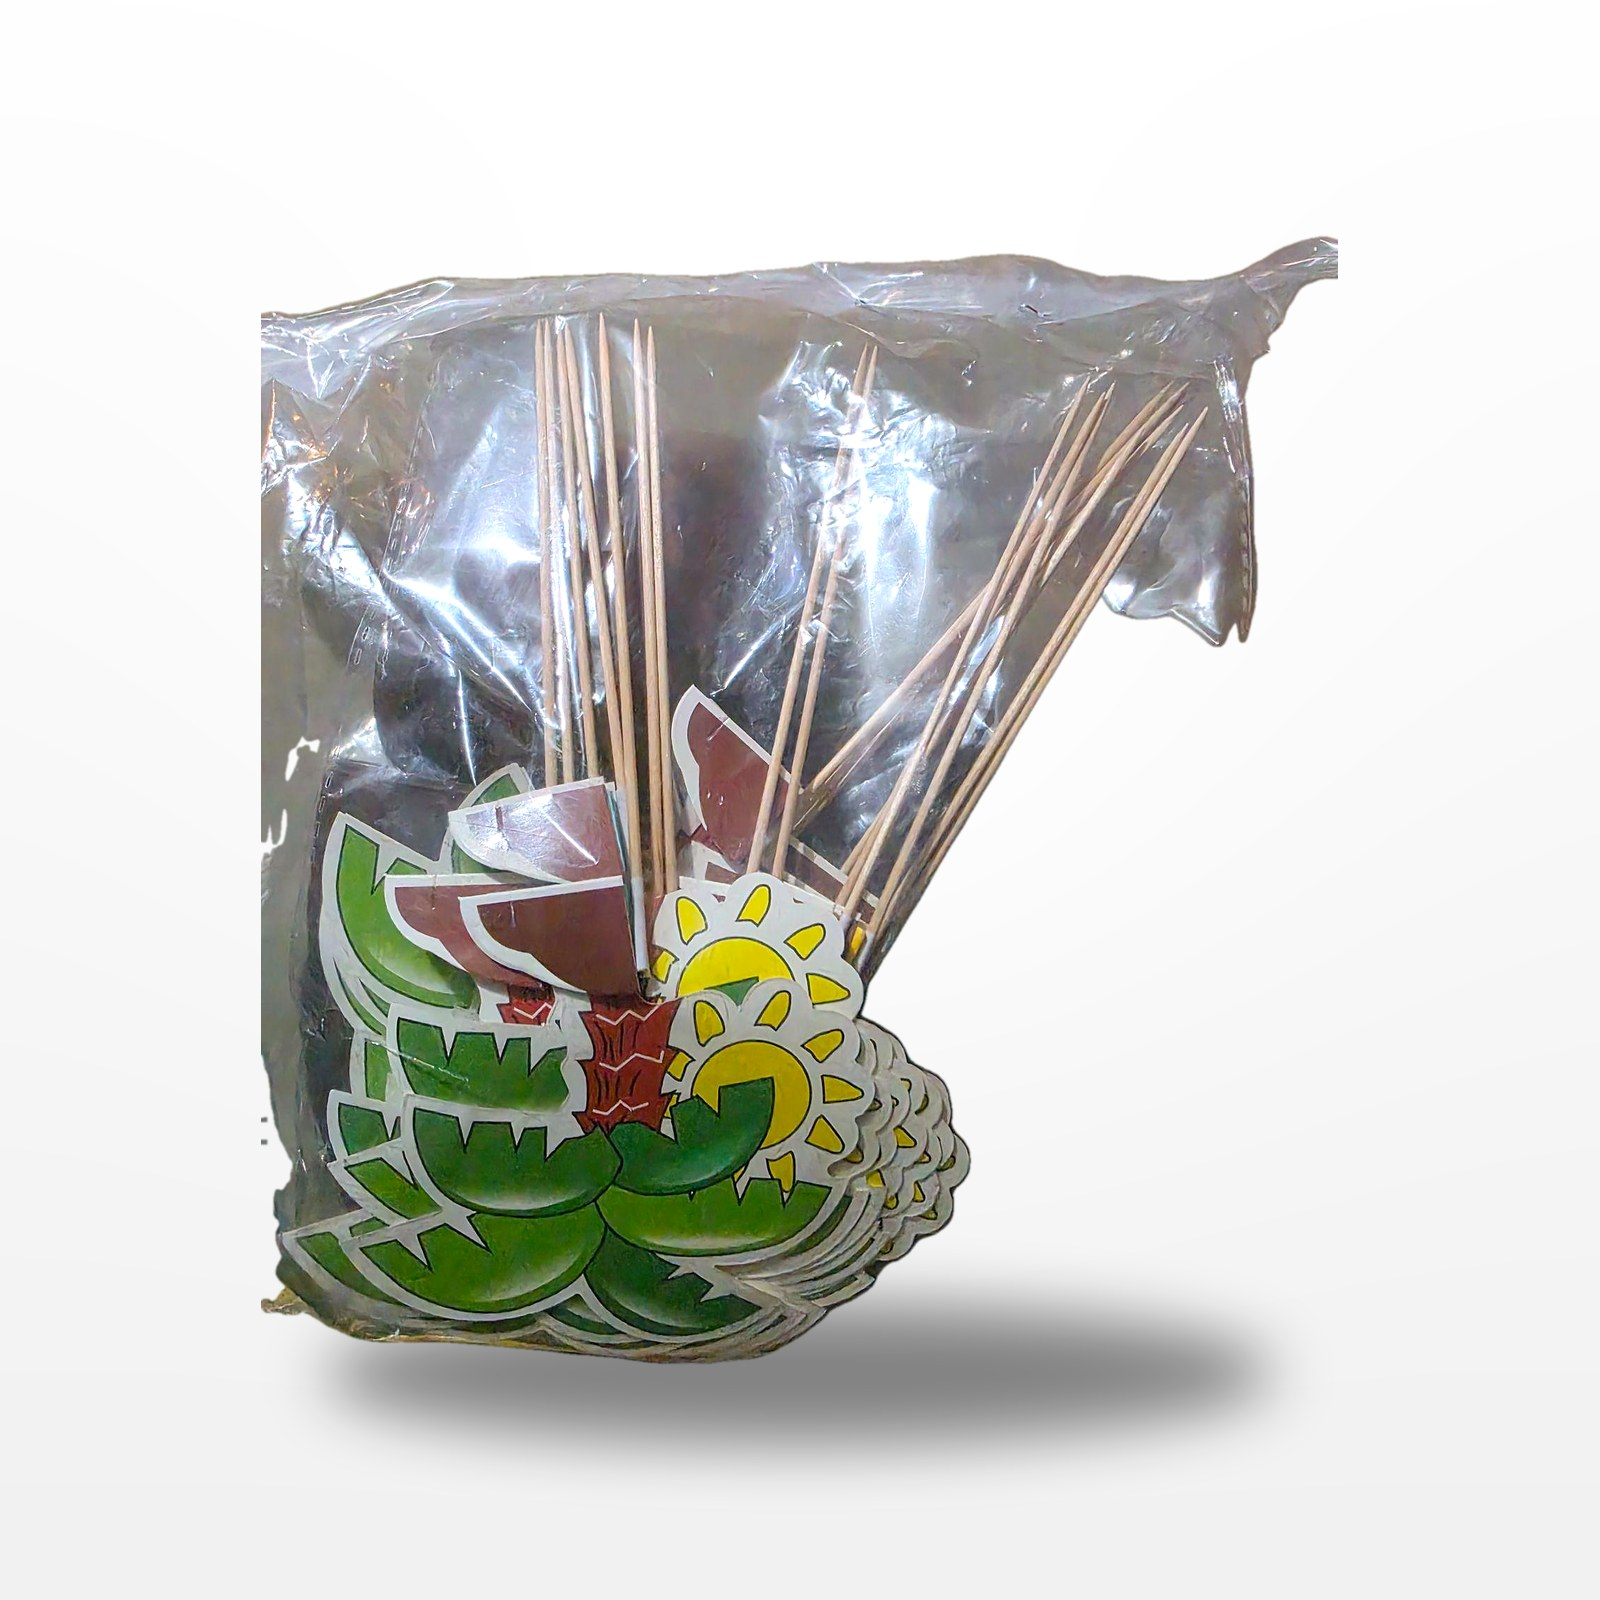
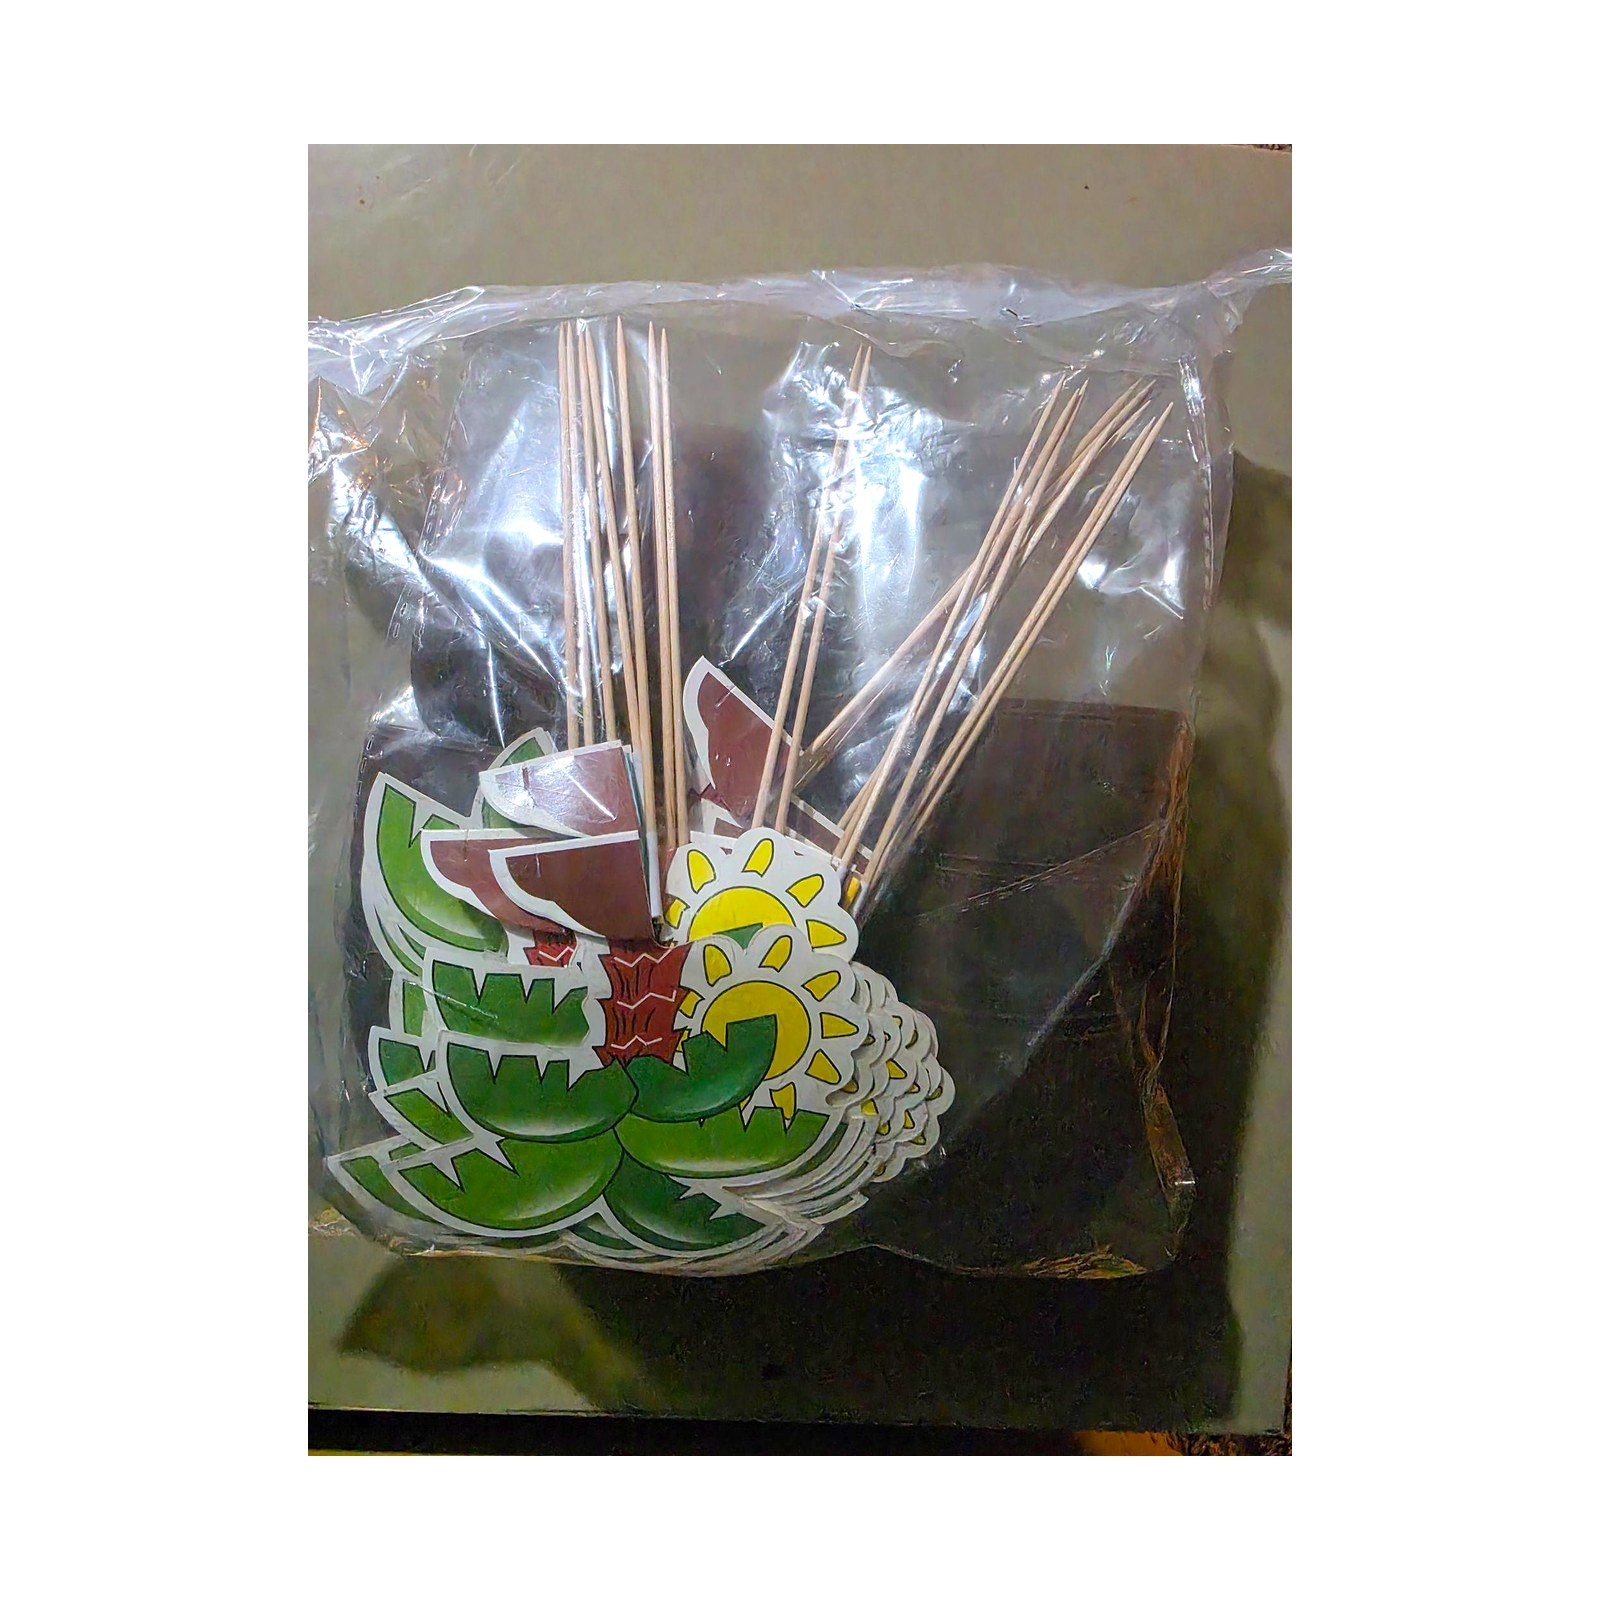
Check every photo for clipping, and fix the two that were clipped
Went back over all seventeen catalog photos specifically for parts of items
being cut off. Two were, and both are fixed.

- The cake toppers had the bag sliced down its right side by the cut-out. The
  bag is entirely inside the original frame, so the pixels existed; the mask
  simply excluded them.
- The ivory linens lost a piece at the top for the same reason.

Both now keep their background instead, which shows the whole item. That is
the right trade: an honest photo with a dull background beats a clean cut-out
with a bite out of the item.

Verified afterwards that nothing in any of the seventeen touches the edge of
its finished frame.

Two photos are cut in a way that cannot be fixed: the chafer fuel box and the
drink dispensers each had the item running off the edge when the photo was
taken. The missing part was never photographed. They stay on the site because
most of an item beats no photo, and PHOTO-GUIDE.md says plainly that they want
retaking -- and why the missing parts were not simply drawn in, which would
show a customer something that is not the item they are booking.

Three automated ways to catch clipping were tried and all three failed, which
is now recorded in the guide so nobody wastes the afternoon again: shape
measurements rank a plate cut in half above an intact basket; straight-edge
detection flags every rectangular item; and the frame-edge test only catches
what the photographer cut, not what the software did. Checking by eye is the
[…]

diff --git a/PHOTO-GUIDE.md b/PHOTO-GUIDE.md
@@ -132,13 +132,23 @@ than floating.
 ### You have to look at every result
 
 This is the important part. The model sometimes removes **part of the item**,
-and there is no way to detect it automatically -- that was tested. The
-measurements that look like they should catch it do not: the vintage plate
-came out cut in half while scoring better on every geometric check than the
-pumpkin basket, which came out perfect.
+and there is no way to detect it automatically. Three different checks were
+tried, and all three failed:
+
+1. **Shape measurements** (how much of its own outline the item fills). The
+   vintage plate came out cut in half while scoring *better* than the pumpkin
+   basket, which came out perfect.
+2. **Straight-edge detection**, on the idea that a cut leaves a ruler-straight
+   line. It flags almost everything, because a box of fuel and a packaged
+   tablecloth have straight edges for the honest reason that they are
+   rectangles.
+3. **Touching the frame edge.** This one does work, but only for a different
+   problem: it tells you the *photographer* cut the item off, not that the
+   software did.
 
 So: run it, then open the output folder and look at each photo. If an item is
-missing a piece, the photo needs a different treatment.
+missing a piece, the photo needs a different treatment. There is no shortcut,
+and anyone who tells you there is has not checked.
 
 ### When a cut-out loses part of the item
 
@@ -199,6 +209,26 @@ empty space around a small item.
 What it cannot fix: an item still inside a plastic bag, a photo too dark to
 show the colours, or a background so cluttered it runs behind the item. Those
 need the item taking out and photographing again.
+
+---
+
+## Two photos where the camera cut the item
+
+Different from the software cutting it, and worse, because nothing can fix it:
+in these two the item already ran off the edge when the photo was taken.
+
+- **The chafer fuel box** -- the right end of the box is outside the frame.
+- **The drink dispensers** -- the top-right dispenser is cut down its side.
+
+The missing part was never photographed, so there is nothing to recover. They
+are on the site because an honest photo of most of the item still beats no
+photo, but both want retaking, and it is two photos.
+
+To be plain about the alternative: the missing parts could not be invented.
+Drawing in the end of a box that nobody photographed would show a customer
+something that is not the item they are booking, which is the same objection
+that kept the AI-generated chafer racks off the site. Step back half a metre
+and take the photo again instead.
 
 ---
 
